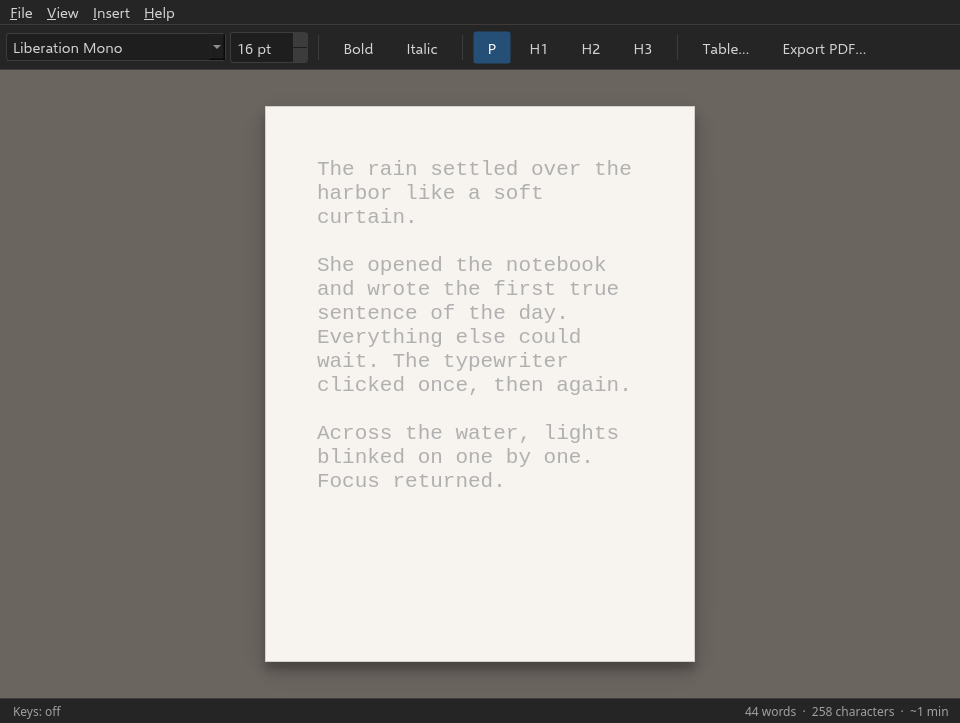
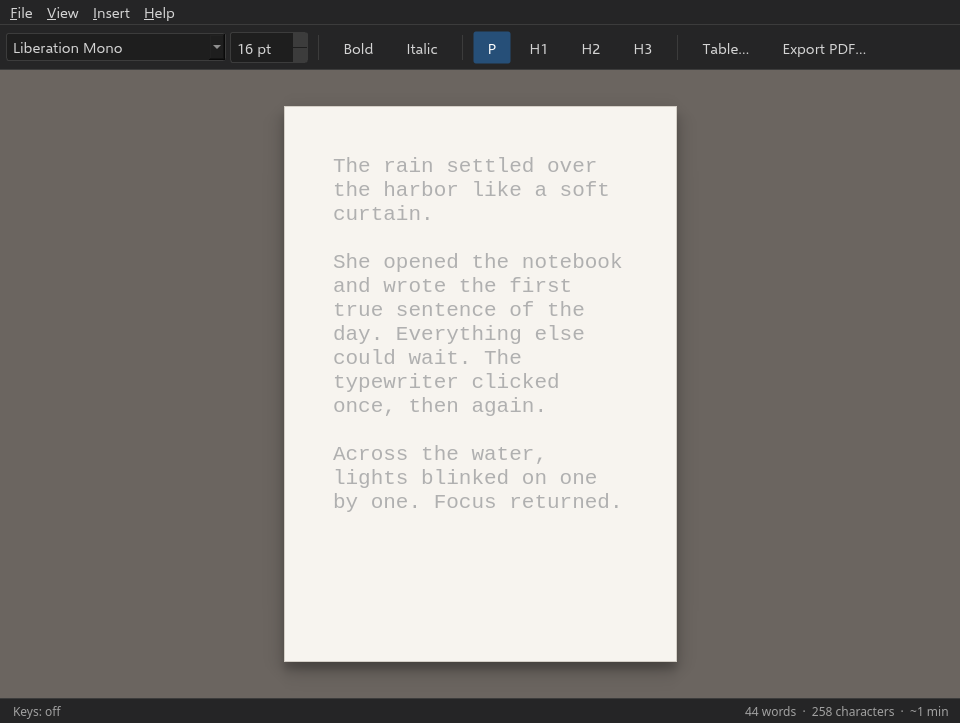
Default Full Page / print / PDF paper size to A4
Ship A4 (210×297 mm) as the first-run page size for Full Page view,
Page Setup, print, and PDF export. Persist page size, orientation, and
margins in QSettings (print/*); Page Setup changes still drive Full Page
geometry. Refresh screenshots and README notes for the taller A4 frame.

Changed region(s): [[0.25, 0.1521, 0.6562, 0.9129], [0.6875, 0.1521, 0.75, 0.9129], [0.3438, 0.213, 0.6562, 0.3043]]

diff --git a/src/MainWindow.cpp b/src/MainWindow.cpp
@@ -83,8 +83,10 @@ MainWindow::MainWindow(QWidget *parent)
     m_meta.ensureDefaults();
 
     m_printer = new QPrinter(QPrinter::HighResolution);
-    m_printer->setPageSize(QPageSize(QPageSize::Letter));
+    // Shipping default: A4 (210×297 mm). Overridden by QSettings when present.
+    m_printer->setPageSize(QPageSize(QPageSize::A4));
     m_printer->setPageMargins(QMarginsF(25.4, 25.4, 25.4, 25.4), QPageLayout::Millimeter);
+    loadPrinterSettings();
 
     auto *central = new QWidget(this);
     auto *layout = new QVBoxLayout(central);
@@ -245,6 +247,63 @@ void MainWindow::saveSettings() const
     s.setValue(QStringLiteral("files/recent"), m_recentFiles);
     s.setValue(QStringLiteral("files/lastDir"), m_lastDocDir);
     s.setValue(QStringLiteral("files/lastSaveFilter"), m_lastSaveFilter);
+    savePrinterSettings();
+}
+
+void MainWindow::loadPrinterSettings()
+{
+    if (!m_printer) {
+        return;
+    }
+    QSettings s;
+    // First-run / missing key → A4 (210 × 297 mm).
+    const int idVal = s.value(QStringLiteral("print/pageSizeId"),
+                              static_cast<int>(QPageSize::A4)).toInt();
+    QPageSize pageSize;
+    if (idVal == static_cast<int>(QPageSize::Custom)) {
+        const qreal wMm = s.value(QStringLiteral("print/pageWidthMm"), 210.0).toDouble();
+        const qreal hMm = s.value(QStringLiteral("print/pageHeightMm"), 297.0).toDouble();
+        pageSize = QPageSize(QSizeF(wMm, hMm), QPageSize::Millimeter,
+                             QStringLiteral("Custom"), QPageSize::ExactMatch);
+    } else {
+        pageSize = QPageSize(static_cast<QPageSize::PageSizeId>(idVal));
+    }
+    if (!pageSize.isValid()) {
+        pageSize = QPageSize(QPageSize::A4);
+    }
+    m_printer->setPageSize(pageSize);
+
+    const int orientVal = s.value(QStringLiteral("print/orientation"),
+                                  static_cast<int>(QPageLayout::Portrait)).toInt();
+    m_printer->setPageOrientation(static_cast<QPageLayout::Orientation>(orientVal));
+
+    const qreal ml = s.value(QStringLiteral("print/marginLeftMm"), 25.4).toDouble();
+    const qreal mt = s.value(QStringLiteral("print/marginTopMm"), 25.4).toDouble();
+    const qreal mr = s.value(QStringLiteral("print/marginRightMm"), 25.4).toDouble();
+    const qreal mb = s.value(QStringLiteral("print/marginBottomMm"), 25.4).toDouble();
+    m_printer->setPageMargins(QMarginsF(ml, mt, mr, mb), QPageLayout::Millimeter);
+}
+
+void MainWindow::savePrinterSettings() const
+{
+    if (!m_printer) {
+        return;
+    }
+    QSettings s;
+    const QPageLayout layout = m_printer->pageLayout();
+    const QPageSize ps = layout.pageSize();
+    s.setValue(QStringLiteral("print/pageSizeId"), static_cast<int>(ps.id()));
+    if (ps.id() == QPageSize::Custom) {
+        const QSizeF mm = ps.size(QPageSize::Millimeter);
+        s.setValue(QStringLiteral("print/pageWidthMm"), mm.width());
+        s.setValue(QStringLiteral("print/pageHeightMm"), mm.height());
+    }
+    s.setValue(QStringLiteral("print/orientation"), static_cast<int>(layout.orientation()));
+    const QMarginsF m = layout.margins(QPageLayout::Millimeter);
+    s.setValue(QStringLiteral("print/marginLeftMm"), m.left());
+    s.setValue(QStringLiteral("print/marginTopMm"), m.top());
+    s.setValue(QStringLiteral("print/marginRightMm"), m.right());
+    s.setValue(QStringLiteral("print/marginBottomMm"), m.bottom());
 }
 
 void MainWindow::buildFileMenu()
@@ -1924,14 +1983,21 @@ void MainWindow::filePrint()
     if (dlg.exec() != QDialog::Accepted) {
         return;
     }
+    savePrinterSettings();
+    if (m_fullPageView) {
+        updateFullPageGeometry();
+    }
     doPrint(m_printer);
 }
 
 void MainWindow::filePageSetup()
 {
     QPageSetupDialog dlg(m_printer, this);
-    if (dlg.exec() == QDialog::Accepted && m_fullPageView) {
-        updateFullPageGeometry();
+    if (dlg.exec() == QDialog::Accepted) {
+        savePrinterSettings();
+        if (m_fullPageView) {
+            updateFullPageGeometry();
+        }
     }
 }
 
@@ -1963,7 +2029,7 @@ void MainWindow::toggleFullPageView()
 QSizeF MainWindow::printerPageSizePx() const
 {
     if (!m_printer) {
-        return QSizeF(816, 1056); // Letter @ 96 DPI fallback
+        return QSizeF(794, 1123); // A4 @ 96 DPI fallback (210×297 mm)
     }
     const QPageLayout layout = m_printer->pageLayout();
     const QSizeF sizePt = layout.pageSize().size(QPageSize::Point); // 1/72 in
@@ -2016,7 +2082,7 @@ void MainWindow::updateFullPageGeometry()
     }
 
     const QSizeF native = printerPageSizePx();
-    const qreal aspect = native.height() > 0 ? native.width() / native.height() : (8.5 / 11.0);
+    const qreal aspect = native.height() > 0 ? native.width() / native.height() : (210.0 / 297.0); // A4
 
     // Fit one page in the desk with breathing room.
     constexpr int kPad = 36;

diff --git a/src/MainWindow.hpp b/src/MainWindow.hpp
@@ -109,6 +109,8 @@ private:
     void addToRecentFiles(const QString &path);
     void loadSettings();
     void saveSettings() const;
+    void loadPrinterSettings();
+    void savePrinterSettings() const;
     void revealHideAway();
     void scheduleHideAway();
     void considerMouseHideAway(const QPoint &globalPos);

diff --git a/README.md b/README.md
@@ -26,13 +26,13 @@ Working **v1 feature core** on a dark distraction-free `QTextEdit` surface.
 
 - **Hide-away formatting toolbar** (FocusWriter-style — not a permanent ribbon): **font family** (system `QFontComboBox`) + **font size** (pt spin), bold, italic, paragraph / H1 / H2 / H3; reveal on mouse near top/bottom edge or Esc; hides again when the pointer leaves / after a short idle; toolbar follows the caret’s current face/size
 - **Paper-white page** (default theme) — near-white writing surface + dark typewriter text; dark hide-away chrome; View → Theme → Paper / Dark room (persisted in QSettings)
-- **Full Page view** (default **on**) — centered paper page on a desk background, zoom-to-fit one page, margins from Page Setup / print geometry; View → Full Page (Ctrl+Shift+P); off = continuous strip; persisted in QSettings
+- **Full Page view** (default **on**) — centered paper page on a desk background, zoom-to-fit one page; shipping paper size **A4** (210 × 297 mm); Page Setup / print / PDF follow that size (changeable; persisted in QSettings); View → Full Page (Ctrl+Shift+P); off = continuous strip
 - **Default body face: typewriter / Courier-class monospace** (`Courier New` → `Liberation Mono` → `Noto Sans Mono` → `Menlo` / `Monaco` → `DejaVu Sans Mono` → `monospace`); switch anytime via the font picker; ODT round-trip preserves face/size; print/PDF honor fonts
 - **Hide-away File + View menus**: Open / Save / Save As / Recent / Export PDF / Print / Print Preview / Page Setup / Properties / Page Guides; View toggles for **Full Page**, typewriter scroll, focus mode, smart quotes, **Theme (Paper / Dark room)**
 - **Polished native Save/Open/Export dialogs** (Qt `QFileDialog`: Documents sidebar, last-dir via QSettings, live suffix from filter, OS overwrite confirm, Create Directory/New Folder via native panel, titles “Save Document” / “Open Document” / “Export PDF”)
 - **Native save default: ODT**; also open/save **TXT** and best-effort **RTF** (no proprietary `.zwriter`, no DOCX in v1)
 - **Export PDF…** (export-only — not a native edit/save format) via `QPrinter` PdfFormat
-- **Print options** (lean): native OS print dialog, page setup (paper / orientation / margins), print preview
+- **Print options** (lean): native OS print dialog, page setup (paper / orientation / margins; default **A4**), print preview; paper size persisted in QSettings
 - **Page guides** toggle (Ctrl+G) — simple column margin guides, not a Word ruler
 - **Bottom status bar** with live **word count**, **character count**, and **reading time** (~N min at 225 WPM)
 - **Document Properties** (Author, Created, Last edit); in-memory always; **ODT meta.xml** round-trip best-effort
@@ -63,7 +63,7 @@ Working **v1 feature core** on a dark distraction-free `QTextEdit` surface.
 - Fullscreen / hide-away chrome
 - **Hide-away formatting toolbar** (font family / size / bold / italic / headings)
 - **Paper-white page** default theme (dark chrome); Dark room optional
-- **Full Page view** (default on) — page-shaped canvas on desk; continuous strip when off
+- **Full Page view** (default on) — A4 page-shaped canvas on desk (Page Setup can change size); continuous strip when off
 - **Typewriter / Courier-class default body font** (system monospace fallbacks); user-selectable
 - **Bottom status bar** with live word + character counts + **reading time**
 - **Export PDF** (export-only)

diff --git a/docs/screenshots/README.md b/docs/screenshots/README.md
@@ -11,4 +11,4 @@ Captured via `./build/zwriter --capture-screenshots docs/screenshots` (xvfb-run 
 | `editor-table.png` | Inserted QTextTable with cell editing (ODT/PDF-safe) |
 | `save-document.png` | Polished Save Document dialog — ODT default, sidebar, **New Folder**, type filter |
 | `fonts-toolbar.png` | Paper-white page + font family/size controls; sample text in typewriter + other faces |
-| `full-page.png` | Full Page view — centered paper page + margins on desk (paper theme, page guides) |
+| `full-page.png` | Full Page view — centered **A4** paper page + margins on desk (paper theme, page guides; taller aspect) |
